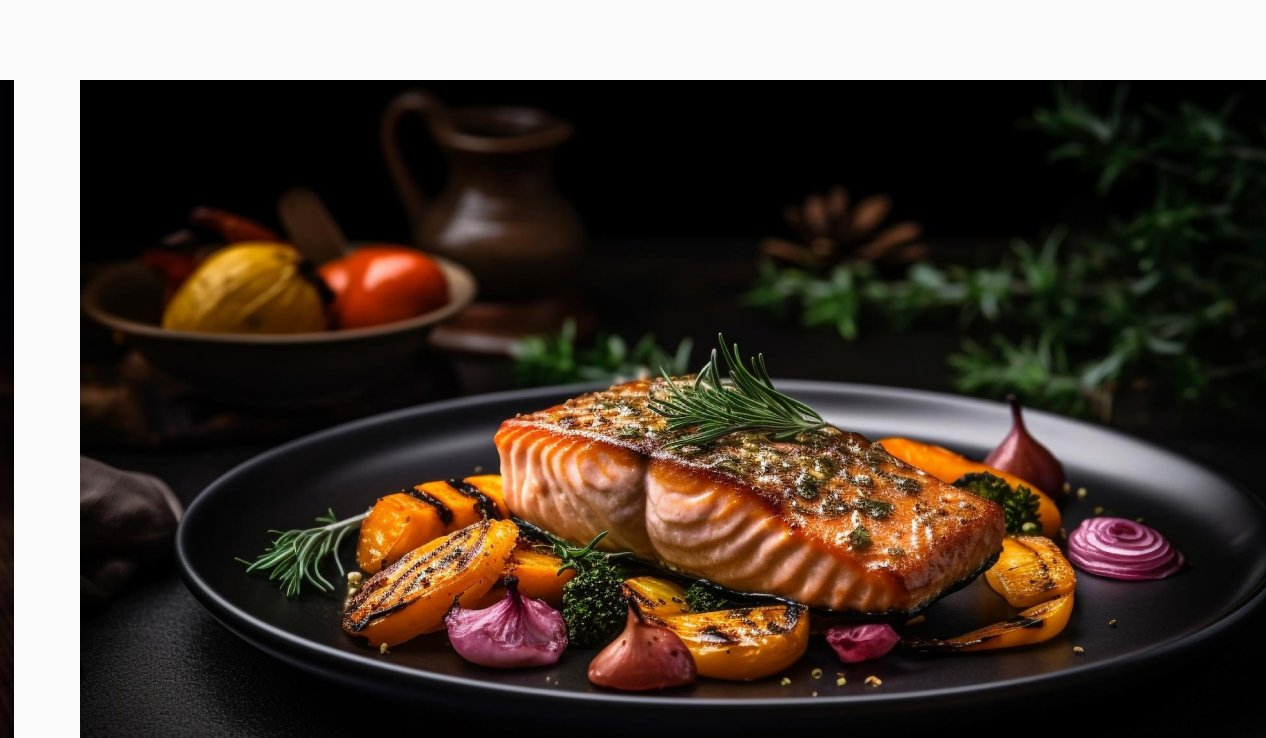
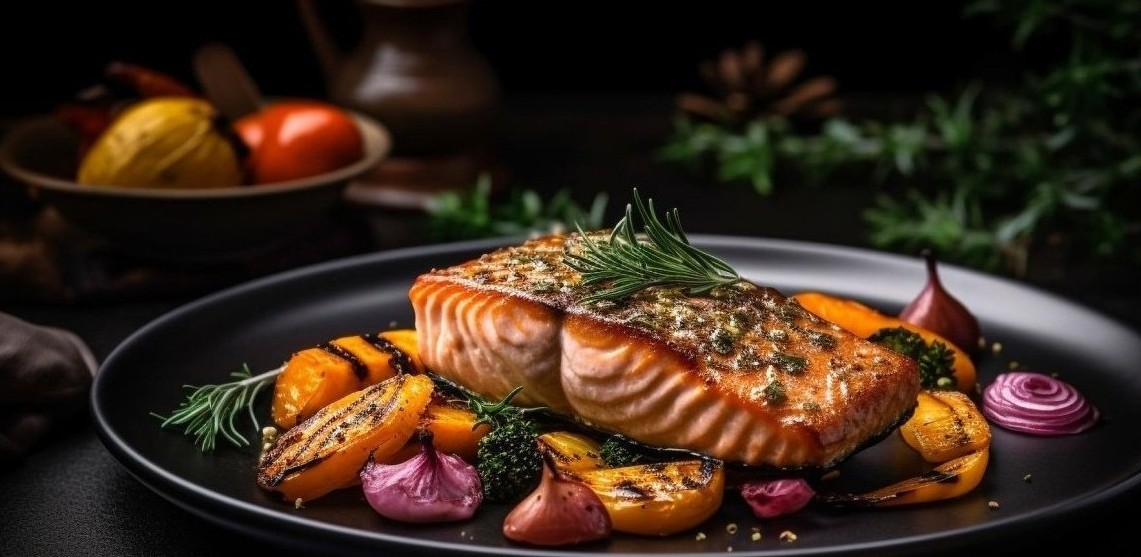
Trim Figma padding from category card images.
Remove leftover white/dark strips from the overview crops so photos fill the cards edge-to-edge.

diff --git a/frontend/src/components/CategoryList/CategoryList.module.css b/frontend/src/components/CategoryList/CategoryList.module.css
@@ -36,9 +36,11 @@
 }
 
 .card img {
+  display: block;
   width: 100%;
   height: 100%;
   object-fit: cover;
+  object-position: center;
 }
 
 .label {
